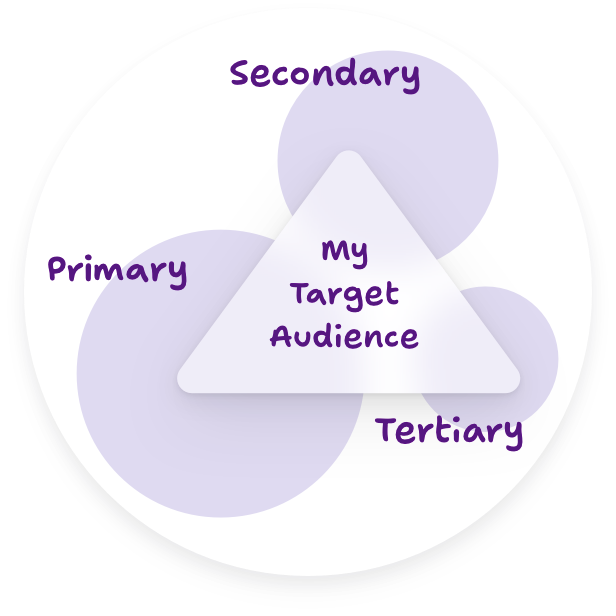
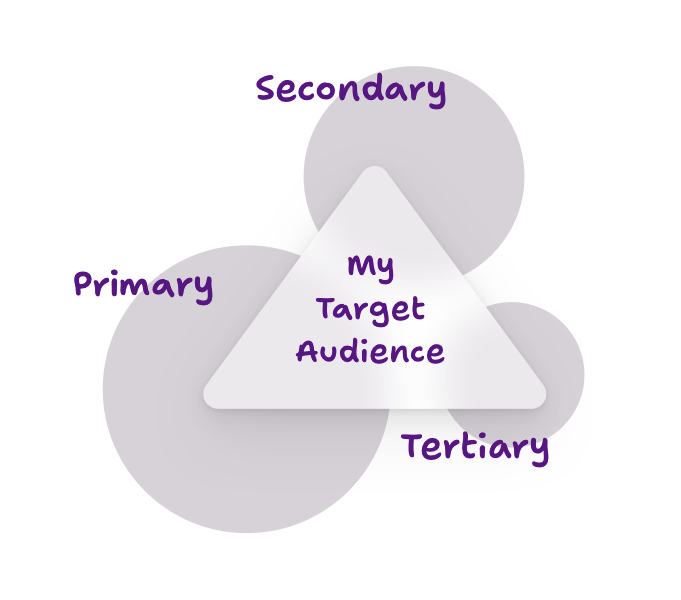
improve: Update title and cover image for target audience post

Changed region(s): [[0.0617, 0.06, 0.9253, 0.9]]

diff --git a/content/post/target-audience.md b/content/post/target-audience.md
@@ -1,11 +1,11 @@
 ---
-title: 'Target Audience for Designers'
+title: "Target Audience, a Designer's Take"
 author_name: 'Yonatan Ben Knaan'
 date: '2024-07-16'
 updated: ''
 cover_image: '/posts/target-audience/target-audience-tn.webp'
 cover_image_height: '752'
-cover_image_thumbhash: '+wcCBoD2uFibR6aKZ3d3qWd1eXFg6vg'
+cover_image_thumbhash: '+wcGBoD2uFibR6aKd3ZnqWd1V4Bw+Oc'
 social_image: '/posts/target-audience/target-audience-social.jpg'
 image_alt: 'This diagram shows a triangle labeled “Target Audience” at the center, surrounded by three overlapping circles labeled “Primary,” “Secondary,” and “Tertiary.”'
 description: 'Why do we need to know our target audience? What is exactly? How is it used? And how do we define it?'
@@ -235,7 +235,7 @@ We can actually see it in brands logos – how they start unique and, over time,
 
 ### Crafting a Brand, a Designer's Take
 
-This doc is part of a larger series called ***Crafting a Brand, a Designer's Take***, where I write about other topics in brand design like: Brand *Vision*, *Values*, *Mission*, *Promise* & *Personality*. How to write *User Persona* and how to create a *Brand Book* – Expect updates soon!
+This doc is part of a larger series called ***Crafting a Brand, a Designer's Take***, where I write about other topics in brand design like: a brand's *Vision*, *Values*, *Mission*, *Promise* & *Personality*. How to write *User Persona* and how to create a *Brand Book* – Expect updates soon!
 
 ### Work in Progress 
 
